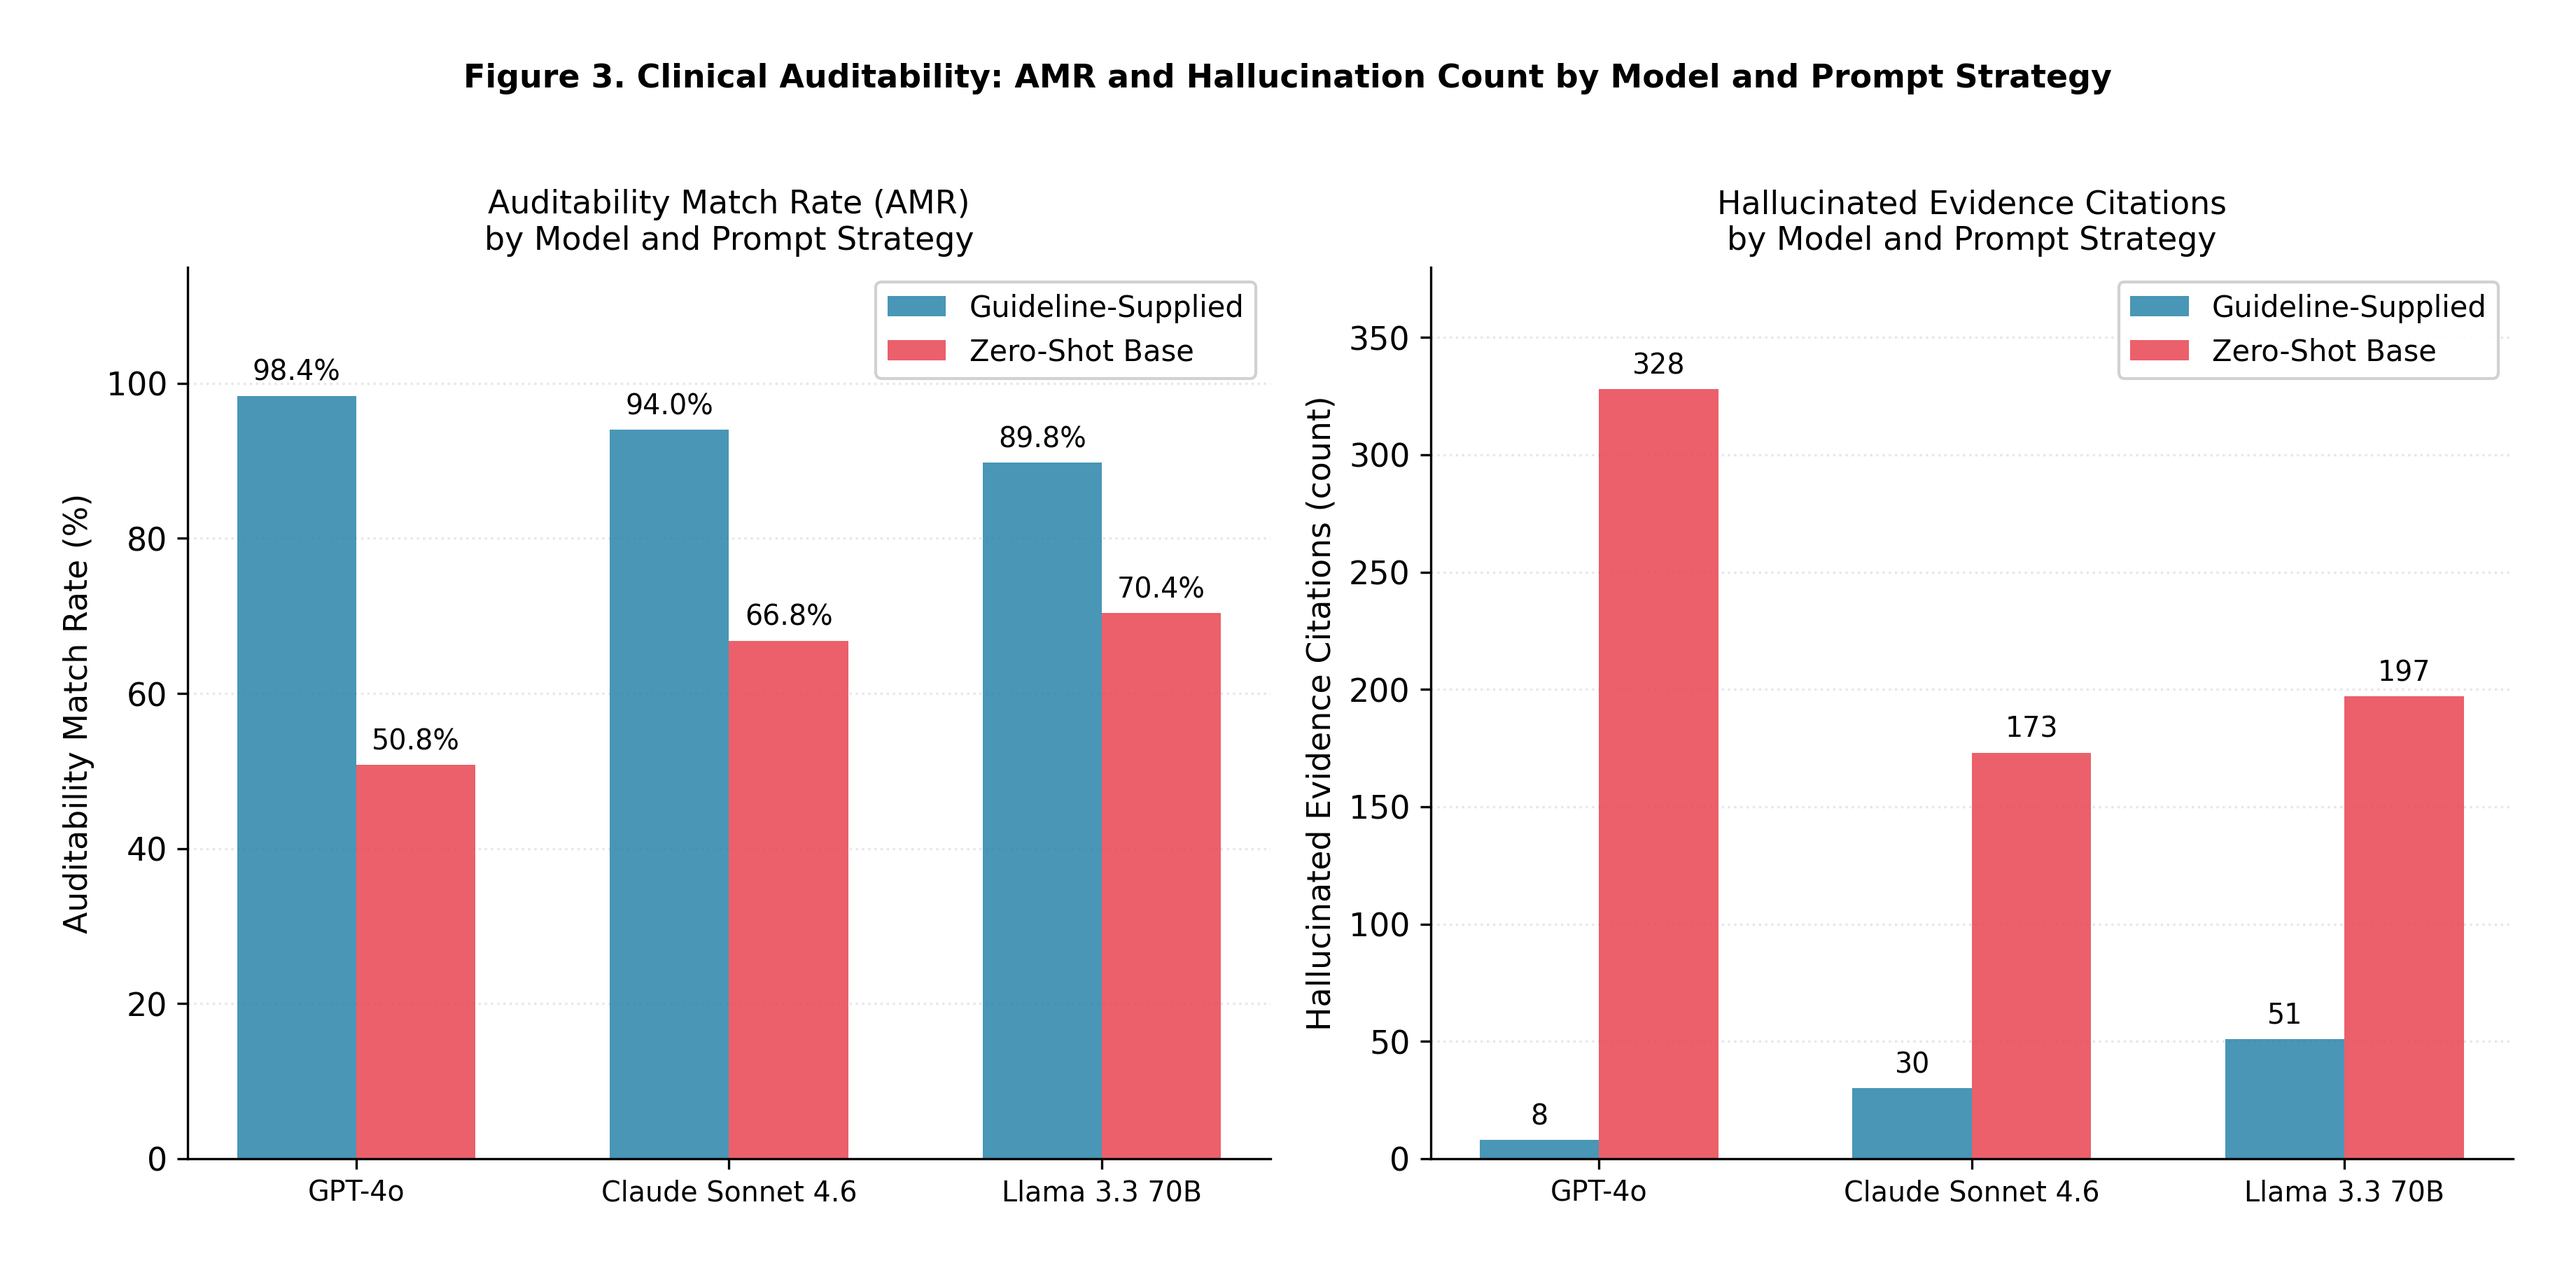
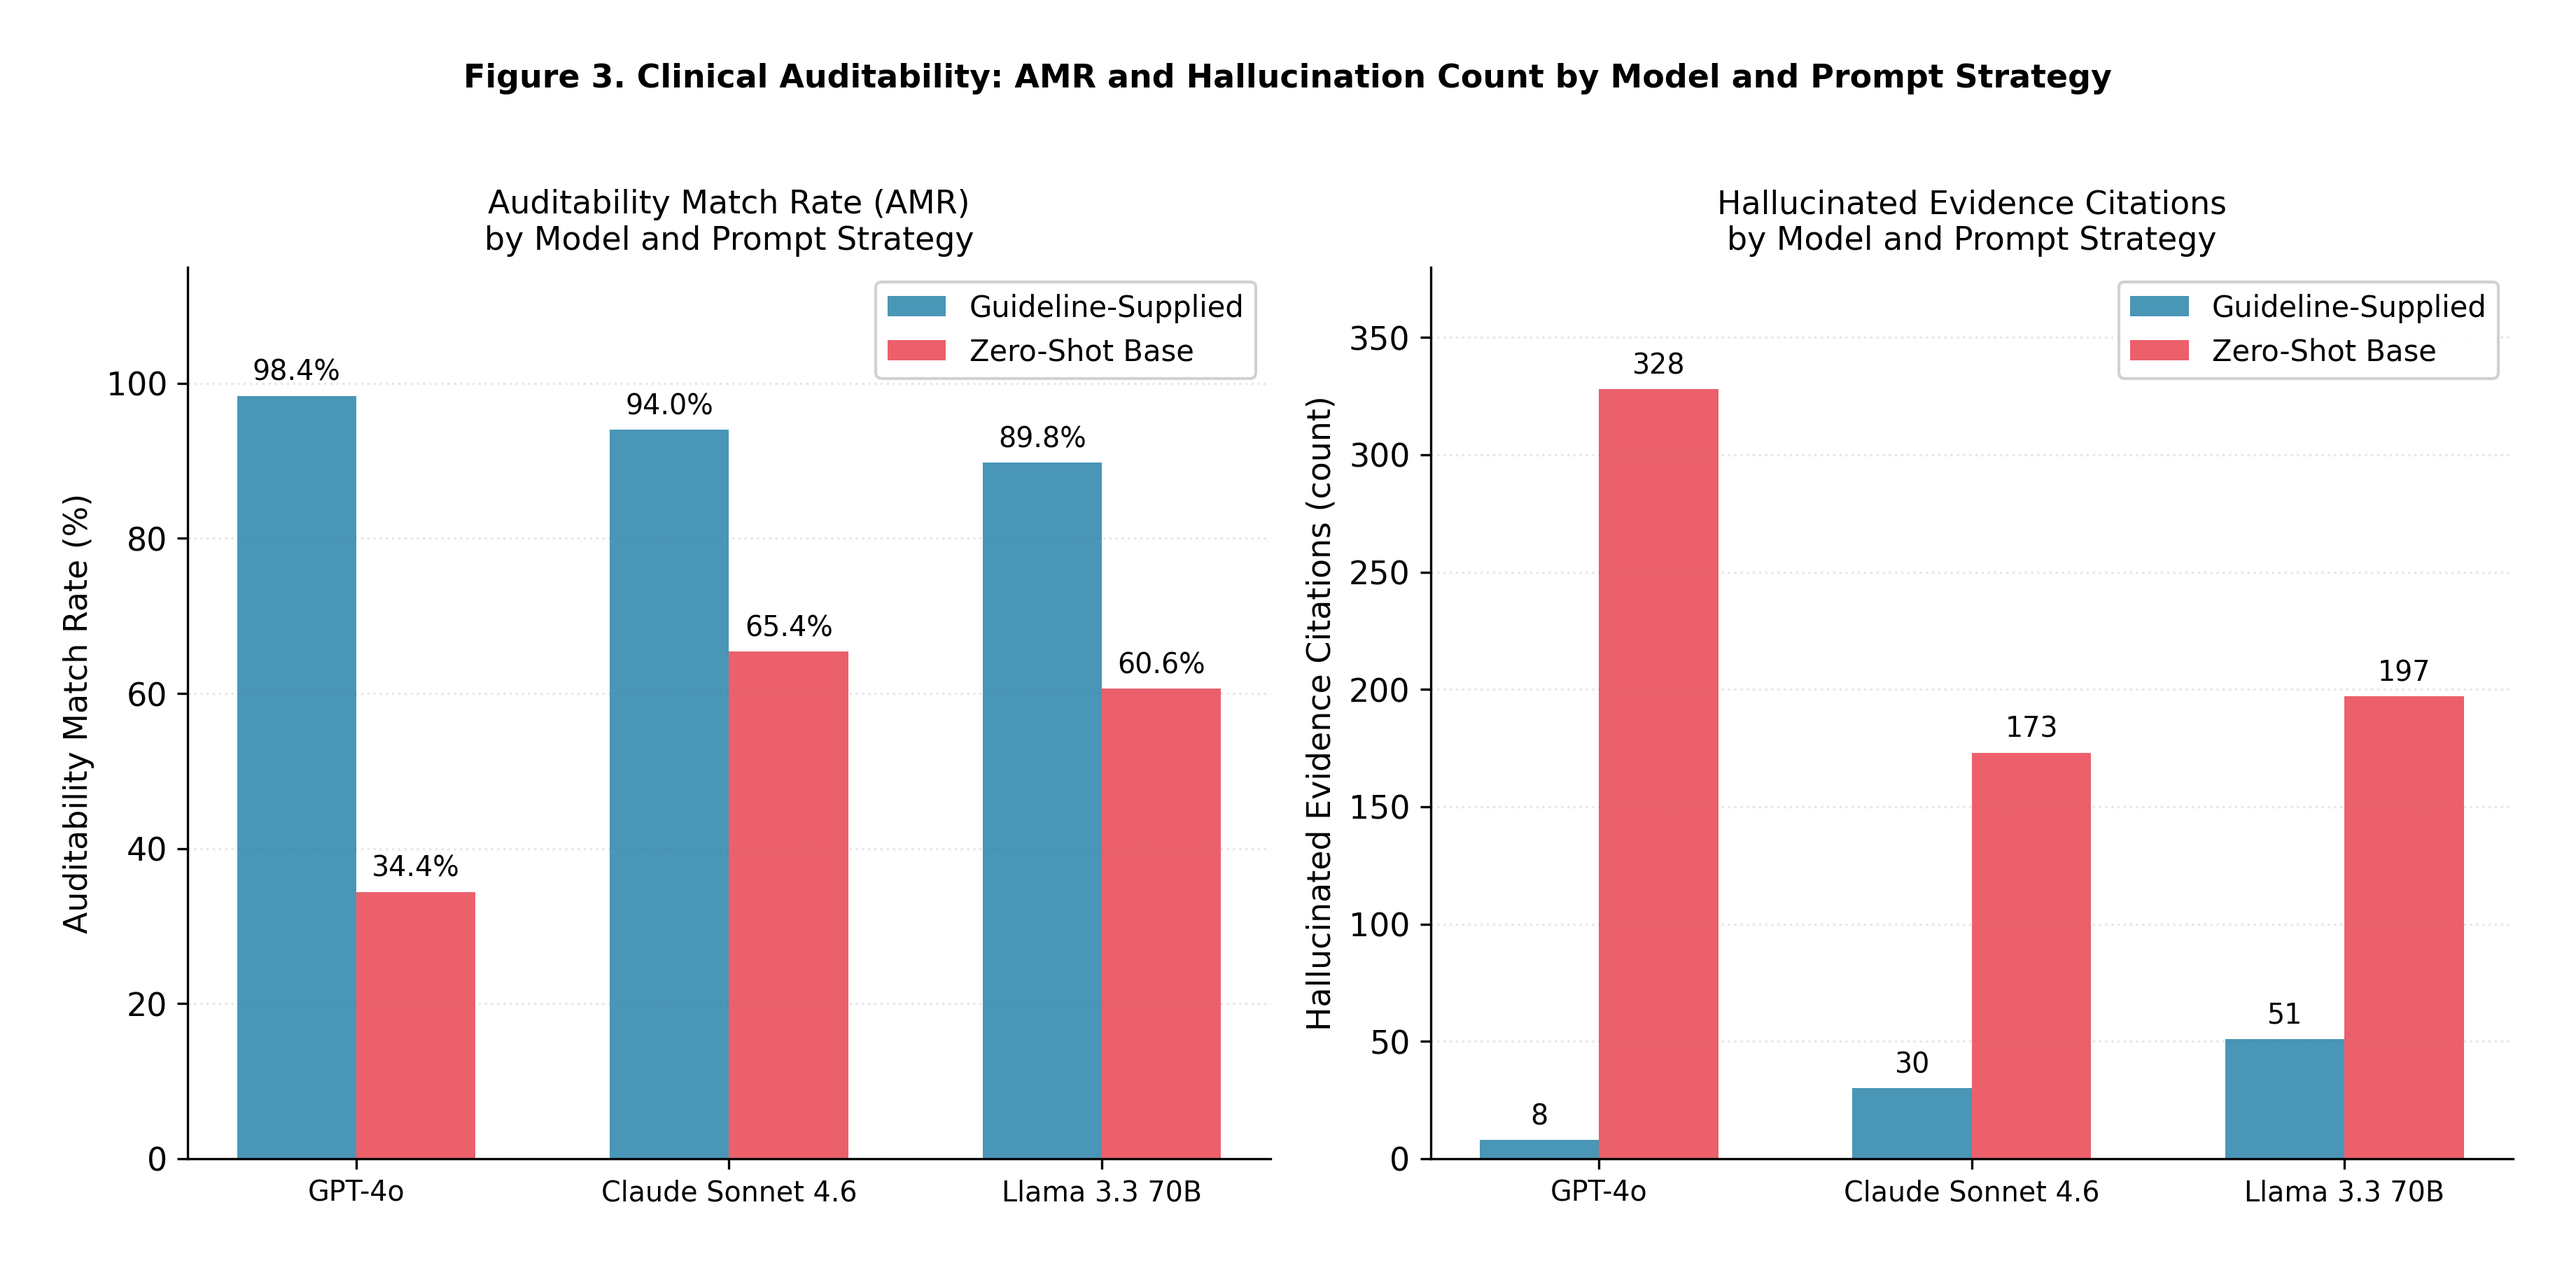
fix(analysis): correct auditability metric calculation
Rewrite the auditability metric logic to match the official definition from metrics_engine.py, which validates correct cited date or code instead of just checking for evidence presence. Update the bootstrap results JSON, summary markdown table, and regenerated performance and hallucination figures.

Changed region(s): [[0.125, 0.5862, 0.1875, 0.7096], [0.4062, 0.4628, 0.5, 0.5554], [0.2812, 0.4628, 0.3438, 0.5245]]

diff --git a/experiments/analysis/bootstrap_ci.py b/experiments/analysis/bootstrap_ci.py
@@ -57,22 +57,32 @@ def load_results(jsonl_path: str):
 
 
 def get_fields(r):
-    """Extract gold/pred numerator and auditability from a record."""
+    """Extract gold/pred numerator and auditability from a record.
+
+    Auditability definition matches metrics_engine.py:
+      - Gold non-compliant (no evidence): audit OK iff LLM cites nothing.
+      - Gold compliant (evidence exists): audit OK iff LLM cites the correct
+        date or code from the gold evidence record.
+    """
     gold_num = bool(r.get("gold_truth", {}).get("numerator", False))
     parsed   = r.get("llm_prediction", {}).get("parsed") or {}
     pred_num = bool(parsed.get("numerator_met", False))
 
-    # Auditability: LLM cited a non-null, non-'None' evidence
-    gold_ev   = r.get("gold_truth", {}).get("evidence")          # dict or None
-    llm_ev    = parsed.get("audit_evidence", "") or ""           # string or dict
-    llm_ev_s  = str(llm_ev).strip().lower()
+    gold_ev  = r.get("gold_truth", {}).get("evidence")       # dict or None
+    llm_ev_s = str(parsed.get("audit_evidence", "") or "").strip().lower()
+    null_vals = ("", "none", "null", "n/a", "false")
 
-    # If gold has no evidence (non-compliant) and LLM says None → auditability OK
     if gold_ev is None:
-        audit = (llm_ev_s in ("", "none", "null", "n/a"))
+        # Non-compliant patient: LLM must not fabricate evidence
+        audit = llm_ev_s in null_vals
     else:
-        # Gold has evidence → LLM must cite something meaningful (not None)
-        audit = llm_ev_s not in ("", "none", "null", "n/a")
+        # Compliant patient: LLM must cite the correct date or code
+        target_date = str(gold_ev.get("event_date", "")).lower()
+        target_code = str(gold_ev.get("code", "")).lower()
+        audit = bool(
+            (target_date and target_date in llm_ev_s) or
+            (target_code and target_code in llm_ev_s)
+        )
 
     return gold_num, pred_num, audit
 

diff --git a/experiments/analysis/bootstrap_summary.md b/experiments/analysis/bootstrap_summary.md
@@ -18,7 +18,7 @@ All publication-scale experiments (n=499–500 patients).
 | Precision | **34.67%** | 29.57% | 39.82% |
 | Recall | **76.19%** | 69.08% | 82.96% |
 | F1 | **47.66%** | 41.96% | 53.0% |
-| Auditability | **50.8%** | 46.4% | 55.0% |
+| Auditability | **34.4%** | 30.2% | 38.6% |
 
 ## Claude Sonnet 4.6 guideSupp (n=500)
 
@@ -36,7 +36,7 @@ All publication-scale experiments (n=499–500 patients).
 | Precision | **47.24%** | 41.06% | 53.33% |
 | Recall | **81.63%** | 75.18% | 87.76% |
 | F1 | **59.85%** | 53.98% | 65.2% |
-| Auditability | **66.8%** | 62.6% | 70.8% |
+| Auditability | **65.4%** | 61.2% | 69.4% |
 
 ## Llama 3.3 70B guideSupp (n=500)
 
@@ -54,5 +54,5 @@ All publication-scale experiments (n=499–500 patients).
 | Precision | **49.65%** | 41.45% | 57.86% |
 | Recall | **48.3%** | 40.3% | 56.52% |
 | F1 | **48.97%** | 41.77% | 55.91% |
-| Auditability | **70.4%** | 66.4% | 74.4% |
+| Auditability | **60.6%** | 56.2% | 64.8% |
 
